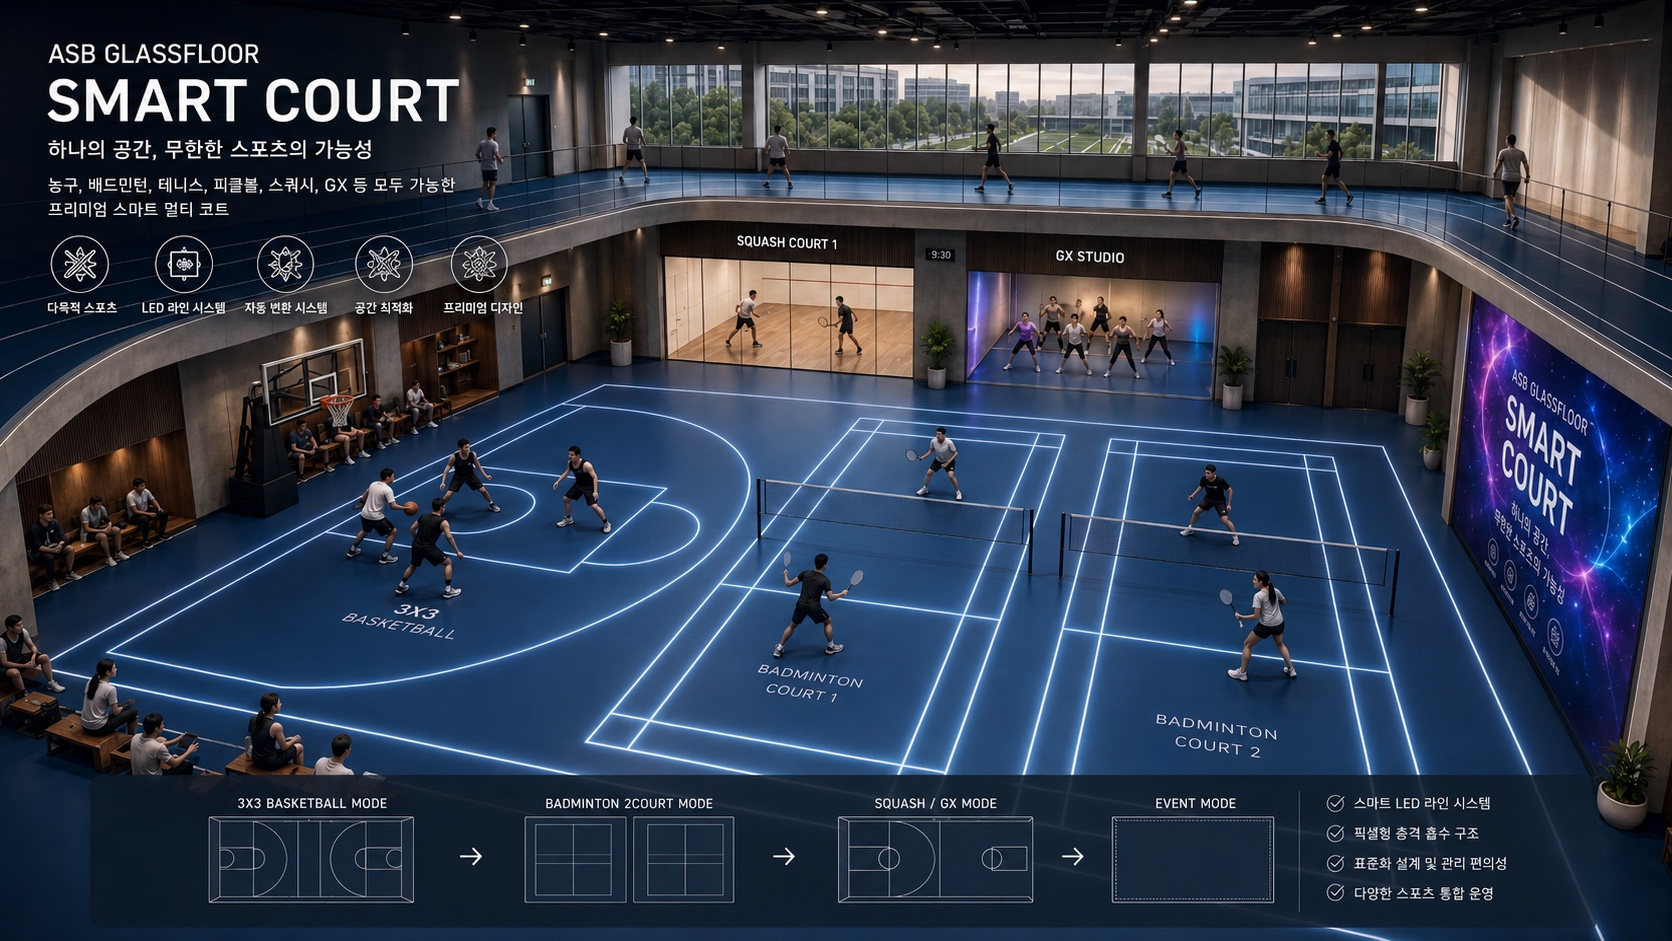
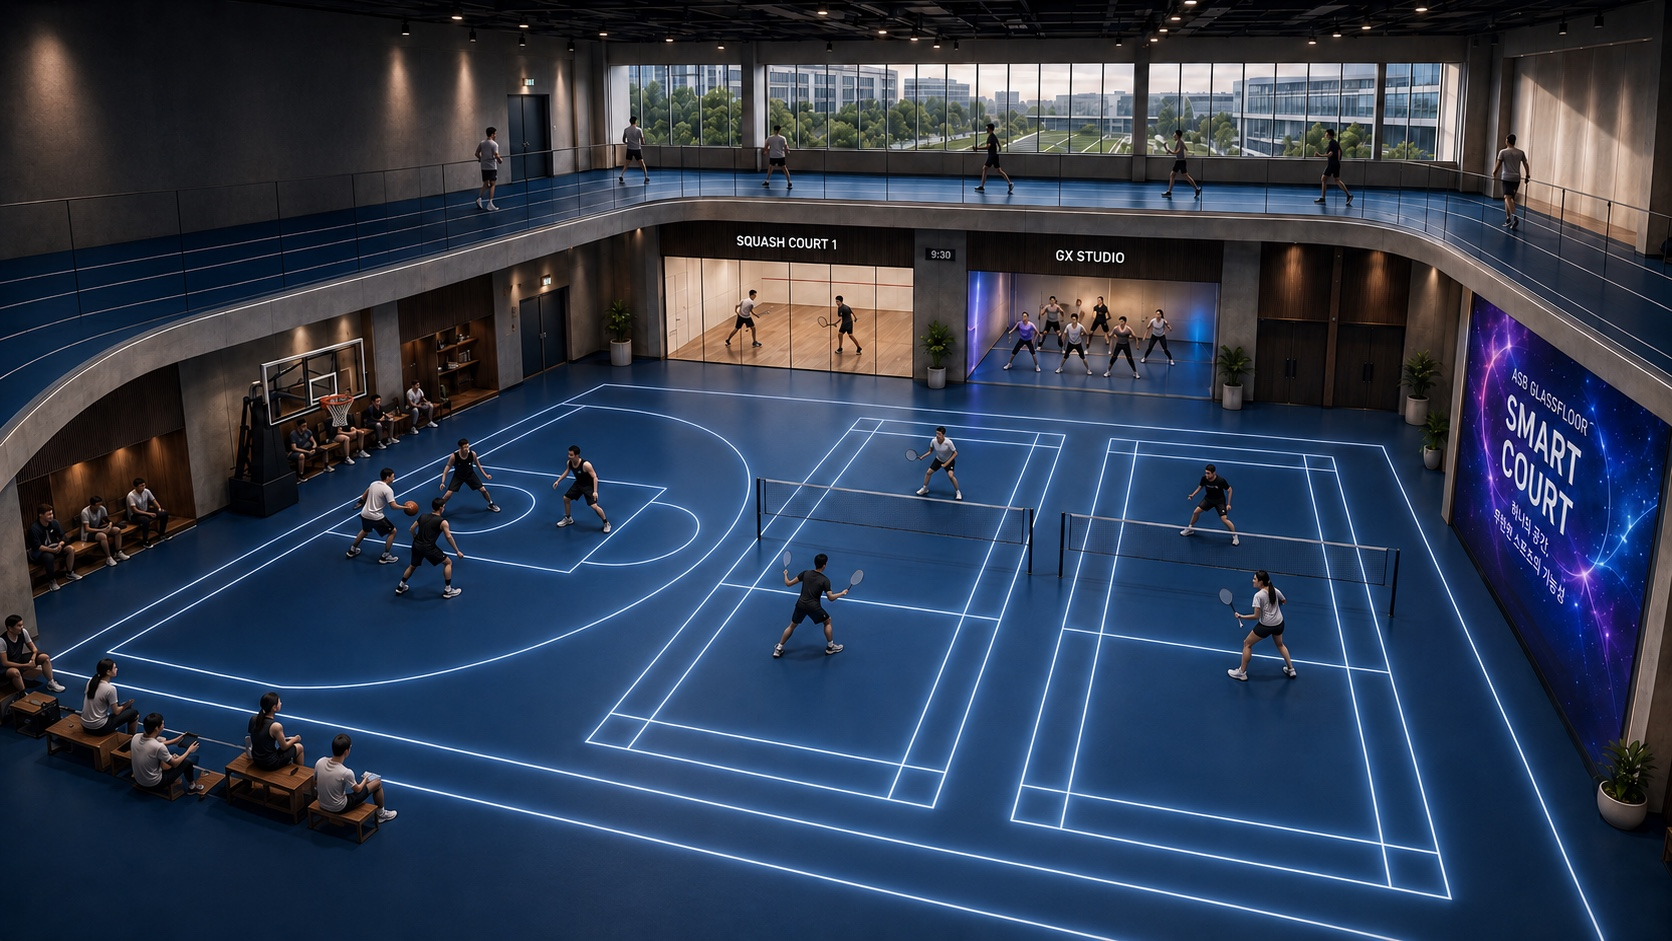
Update smartcourt media and social preview

diff --git a/src/components/products/MultiSportsProjects.tsx b/src/components/products/MultiSportsProjects.tsx
@@ -81,8 +81,8 @@ const conceptScenes = [
         title: "복합 스포츠 커뮤니티",
         description: "스마트코트와 휴게공간, 스쿼시 코트를 유기적으로 구성한 복합 스포츠 공간입니다.",
         image: "/smartcourt-concepts/integrated-sports-community.jpeg",
-        width: 1024,
-        height: 575,
+        width: 1686,
+        height: 933,
         details: [
             "운동과 휴식, 소통이 자연스럽게 연결되는 구성으로",
             "입주민 만족도와 커뮤니티 가치를 높이는",
@@ -95,7 +95,7 @@ const conceptScenes = [
         title: "프리미엄 실내 멀티코트",
         description: "LED 라인 시스템으로 다양한 종목을 선명하게 전환하는 프리미엄 스마트코트입니다.",
         image: "/smartcourt-concepts/premium-multisport-court.jpg",
-        width: 1678,
+        width: 1672,
         height: 941,
         details: [
             "하나의 공간에서 다양한 종목과 프로그램을 운영할 수 있도록",

diff --git a/src/components/MultiSportsDemo.tsx b/src/components/MultiSportsDemo.tsx
@@ -78,7 +78,7 @@ export default function MultiSportsDemo() {
                             <span className="font-medium">체험ZONE</span>
                         </h2>
                         <p className="text-slate-500 mb-4 leading-relaxed break-keep">
-                            단 한 번의 터치로 다양한 스포츠 종목을 자유롭게 전환해 보세요. ASB는 세계에서 가장 진보된 글라스 플로어 시스템으로 체육관의 기준을 새롭게 정의합니다.
+                            단 한 번의 터치로 다양한 스포츠 종목을 자유롭게 전환해 보세요.
                         </p>
                     </div>
 

diff --git a/src/components/TrySystemDemo.tsx b/src/components/TrySystemDemo.tsx
@@ -73,7 +73,7 @@ export default function TrySystemDemo() {
                             <span className="font-medium">체험ZONE</span>
                         </h2>
                         <p className="text-slate-400 mb-8 leading-relaxed break-keep">
-                            단 한 번의 터치로 다양한 스포츠 종목을 자유롭게 전환해 보세요. ASB는 세계에서 가장 진보된 글라스 플로어 시스템으로 체육관의 기준을 새롭게 정의합니다.
+                            단 한 번의 터치로 다양한 스포츠 종목을 자유롭게 전환해 보세요.
                         </p>
                     </div>
 

diff --git a/src/app/page.tsx b/src/app/page.tsx
@@ -42,6 +42,21 @@ export const metadata: Metadata = {
     siteName: "ASB GlassFloor Korea",
     locale: "ko_KR",
     type: "website",
+    images: [
+      {
+        url: "/asb-og-image.jpg",
+        width: 1200,
+        height: 630,
+        alt: "ASB GlassFloor 풀LED 스포츠 코트",
+      },
+    ],
+  },
+  twitter: {
+    card: "summary_large_image",
+    title: "ASB GlassFloor Korea | GLOBE",
+    description:
+      "글라스플로어, LED 스포츠 플로어, 스마트코트, 스마트체육관, 멀티스포츠 코트를 위한 ASB GlassFloor 한국 공식 파트너.",
+    images: ["/asb-og-image.jpg"],
   },
 };
 

diff --git a/src/app/layout.tsx b/src/app/layout.tsx
@@ -70,6 +70,12 @@ export const metadata: Metadata = {
       },
     ],
   },
+  twitter: {
+    card: "summary_large_image",
+    title: "ASB GlassFloor Korea | GLOBE",
+    description: "GLOBE는 ASB GlassFloor 한국 공식 파트너로 LED 스포츠 플로어와 스마트코트 솔루션을 제공합니다.",
+    images: ["/asb-og-image.jpg"],
+  },
   other: {
     'naver-site-verification': '2a86449b9e69a610e63c771a81d2211ed126c18d',
   },
